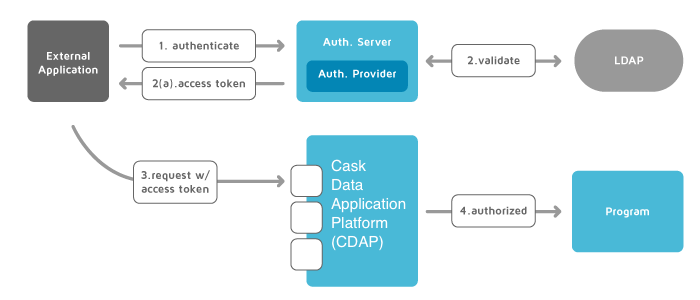
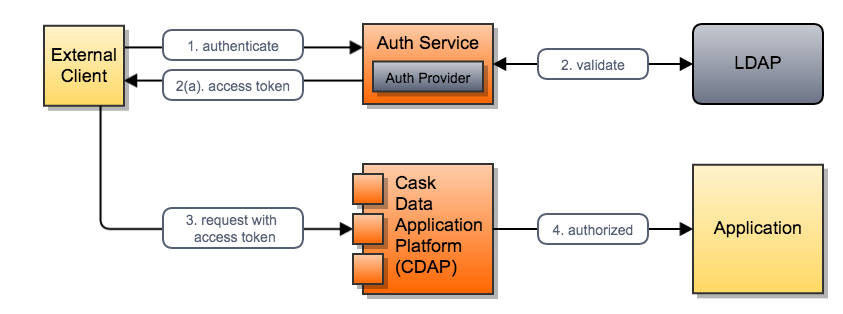
update auth diagram; remove CLI frm admin

diff --git a/cdap-docs/developer-guide/source/admin.rst b/cdap-docs/developer-guide/source/admin.rst
@@ -883,7 +883,8 @@ for all external authentication systems.  Clients authenticate with the authenti
 follows:
 
 .. image:: _images/auth_flow_simple.png
-
+   :width: 7in
+   :align: center
 
 #. Client initiates authentication, supplying credentials.
 
@@ -1859,150 +1860,17 @@ with the arguments as a JSON string in the body::
 Command-Line Interface
 ======================
 
-Introduction
-------------
-
-The Command-Line Interface (CLI) provides methods to interact with the CDAP server from within a shell,
-similar to HBase shell or ``bash``. It is located within the SDK, at ``bin/cdap-cli`` as either a bash
-script or a Windows ``.bat`` file. It is also packaged in the SDK as a JAR file, at ``bin/cdap-cli.jar``.
-
-Usage
------
-
-The CLI may be used in two ways: interactive mode and non-interactive mode.
-
-Interactive Mode
-----------------
-
-.. highlight:: console
-
-To run the CLI in interactive mode, run the ``cdap-cli`` executable with no arguments from the terminal::
-
-  $ /bin/cdap-cli
-
-or, on Windows::
-
-  ~SDK> bin\cdap-cli.bat
-
-The executable should bring you into a shell, with this prompt::
-
-  cdap (localhost:10000)>
-
-This indicates that the CLI is currently set to interact with the CDAP server at ``localhost``.
-There are two ways to interact with a different CDAP server:
-
-- To interact with a different CDAP server by default, set the environment variable ``CDAP_HOST`` to a hostname.
-- To change the current CDAP server, run the command ``connect example.com``.
-
-For example, with ``CDAP_HOST`` set to ``example.com``, the Shell Client would be interacting with
-a CDAP instance at ``example.com``, port ``10000``::
-
-  cdap (example.com:10000)>
-
-To list all of the available commands, enter ``help``::
-
-  cdap (localhost:10000)> help
-
-Non-Interactive Mode
---------------------
-
-To run the CLI in non-interactive mode, run the ``cdap-cli`` executable, passing the command you want executed
-as the argument. For example, to list all applications currently deployed to CDAP, execute::
-
-  cdap list apps
-
-Available Commands
-------------------
-
-These are the available commands:
-
-.. csv-table::
-   :header: Command,Description
-   :widths: 50, 50
-
-   **General**
-   ``help``,Prints this helper text
-   ``version``,Prints the version
-   ``exit``,Exits the shell
-   **Calling and Executing**
-   ``call procedure <app-id>.<procedure-id> <method-id> <parameters-map>``,"Calls a Procedure, passing in the parameters as a JSON String map"
-   ``execute <query>``,Executes a Dataset query
-   **Creating**
-   ``create dataset instance <type-name> <new-dataset-name>``,Creates a Dataset
-   ``create stream <new-stream-id>``,Creates a Stream
-   **Deleting**
-   ``delete app <app-id>``,Deletes an Application
-   ``delete dataset instance <dataset-name>``,Deletes a Dataset
-   ``delete dataset module <module-name>``,Deletes a Dataset module
-   **Deploying**
-   ``deploy app <app-jar-file>``,Deploys an application
-   ``deploy dataset module <module-jar-file> <module-name> <module-jar-classname>``,Deploys a Dataset module
-   **Describing**
-   ``describe app <app-id>``,Shows detailed information about an application
-   ``describe dataset module <module-name>``,Shows information about a Dataset module
-   ``describe dataset type <type-name>``,Shows information about a Dataset type
-   **Retrieving Information**
-   ``get history flow <app-id>.<program-id>``,Gets the run history of a Flow
-   ``get history mapreduce <app-id>.<program-id>``,Gets the run history of a MapReduce job
-   ``get history procedure <app-id>.<program-id>``,Gets the run history of a Procedure
-   ``get history runnable <app-id>.<program-id>``,Gets the run history of a Runnable
-   ``get history workflow <app-id>.<program-id>``,Gets the run history of a Workflow
-   ``get instances flowlet <app-id>.<program-id>``,Gets the instances of a Flowlet
-   ``get instances procedure <app-id>.<program-id>``,Gets the instances of a Procedure
-   ``get instances runnable <app-id>.<program-id>``,Gets the instances of a Runnable
-   ``get live flow <app-id>.<program-id>``,Gets the live info of a Flow
-   ``get live procedure <app-id>.<program-id>``,Gets the live info of a Procedure
-   ``get logs flow <app-id>.<program-id> [<start-time> <end-time>]``,Gets the logs of a Flow
-   ``get logs mapreduce <app-id>.<program-id> [<start-time> <end-time>]``,Gets the logs of a MapReduce job
-   ``get logs procedure <app-id>.<program-id> [<start-time> <end-time>]``,Gets the logs of a Procedure
-   ``get logs runnable <app-id>.<program-id> [<start-time> <end-time>]``,Gets the logs of a Runnable
-   ``get status flow <app-id>.<program-id>``,Gets the status of a Flow
-   ``get status mapreduce <app-id>.<program-id>``,Gets the status of a MapReduce job
-   ``get status procedure <app-id>.<program-id>``,Gets the status of a Procedure
-   ``get status service <app-id>.<program-id>``,Gets the status of a Service
-   ``get status workflow <app-id>.<program-id>``,Gets the status of a Workflow
-   **Listing Elements**
-   ``list apps``,Lists all applications
-   ``list dataset instances``,Lists all Datasets
-   ``list dataset modules``,Lists Dataset modules
-   ``list dataset types``,Lists Dataset types
-   ``list flows``,Lists Flows
-   ``list mapreduce``,Lists MapReduce jobs
-   ``list procedures``,Lists Procedures
-   ``list programs``,Lists all programs
-   ``list streams``,Lists Streams
-   ``list workflows``,Lists Workflows
-   **Sending Events**
-   ``send stream <stream-id> <stream-event>``,Sends an event to a Stream
-   **Setting**
-   ``set instances flowlet <program-id> <num-instances>``,Sets the instances of a Flowlet
-   ``set instances procedure <program-id> <num-instances>``,Sets the instances of a Procedure
-   ``set instances runnable <program-id> <num-instances>``,Sets the instances of a Runnable
-   ``set stream ttl <stream-id> <ttl-in-seconds>``,Sets the Time-to-Live (TTL) of a Stream
-   **Starting**
-   ``start flow <program-id>``,Starts a Flow
-   ``start mapreduce <program-id>``,Starts a MapReduce job
-   ``start procedure <program-id>``,Starts a Procedure
-   ``start service <program-id>``,Starts a Service
-   ``start workflow <program-id>``,Starts a Workflow
-   **Stopping**
-   ``stop flow <program-id>``,Stops a Flow
-   ``stop mapreduce <program-id>``,Stops a MapReduce job
-   ``stop procedure <program-id>``,Stops a Procedure
-   ``stop service <program-id>``,Stops a Service
-   ``stop workflow <program-id>``,Stops a Workflow
-   **Truncating**
-   ``truncate dataset instance``,Truncates a Dataset
-   ``truncate stream``,Truncates a Stream
-
-.. highlight:: java
+Most of the administrative operations are also available more conveniently through the Command Line Interface.
+See this :ref:`section<CLI>` for details.
 
 Where to Go Next
 ================
 Now that you've seen how to operate a CDAP, take a look at:
 
-- `Cask Data Application Platform HTTP RESTful API <rest.hml>`__,
+- :ref:`Cask Data Application Platform HTTP RESTful API <restful-api>`,
   a guide to programming CDAP's HTTP interface.
+- :ref:`Command-Line Interface <CLI>`,
+  a guide to the command-line client interface to CDAP.
 
 .. _appendix:
 
